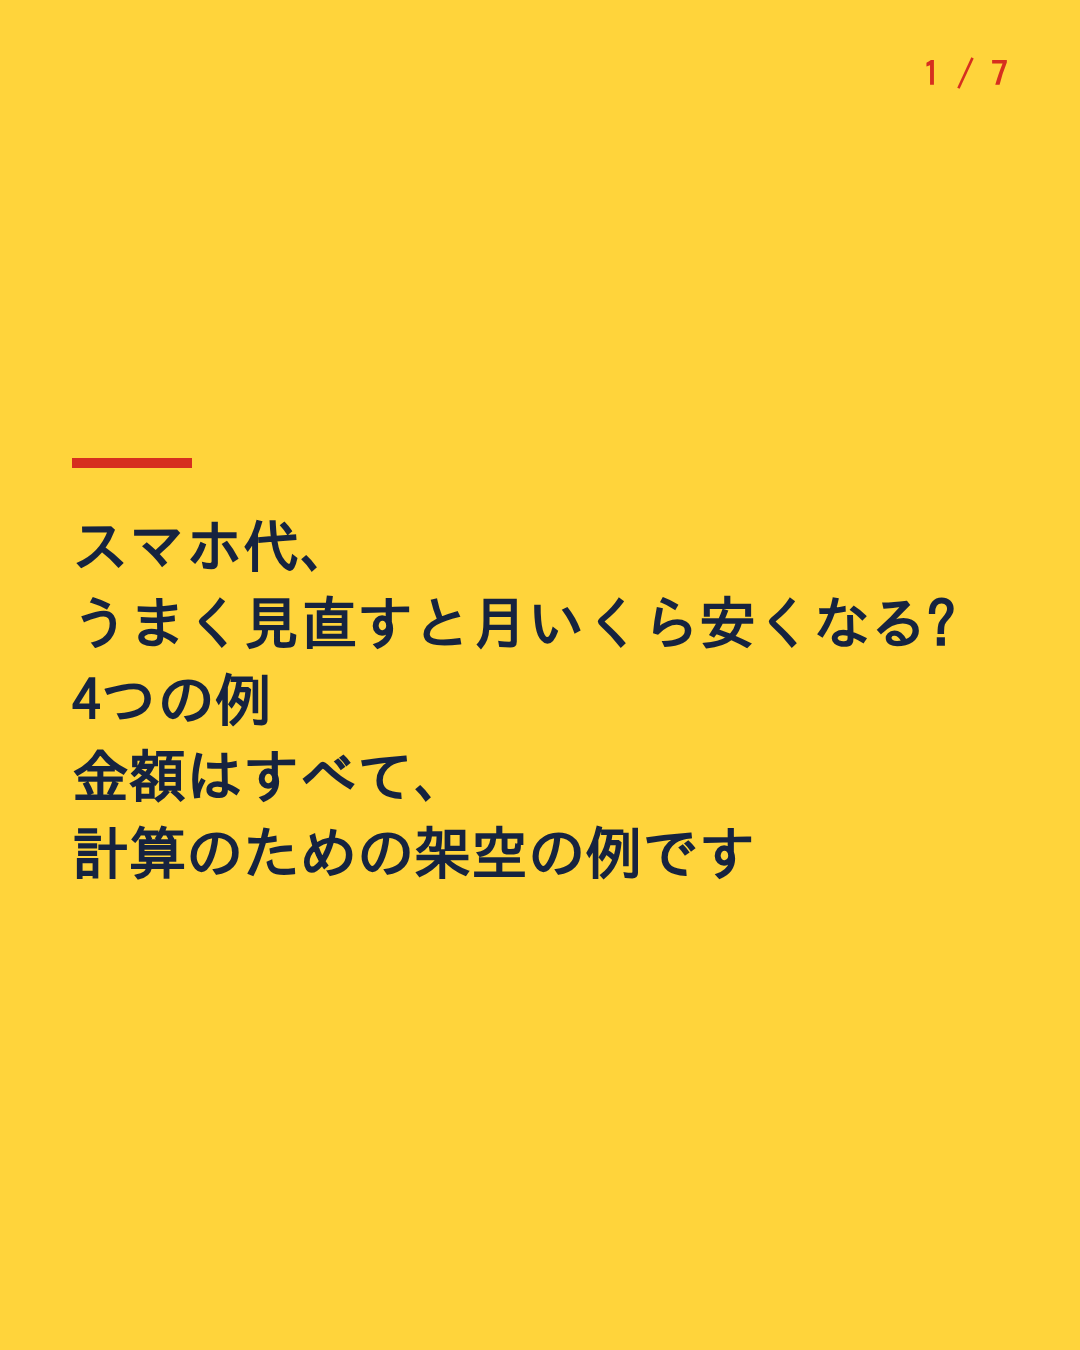
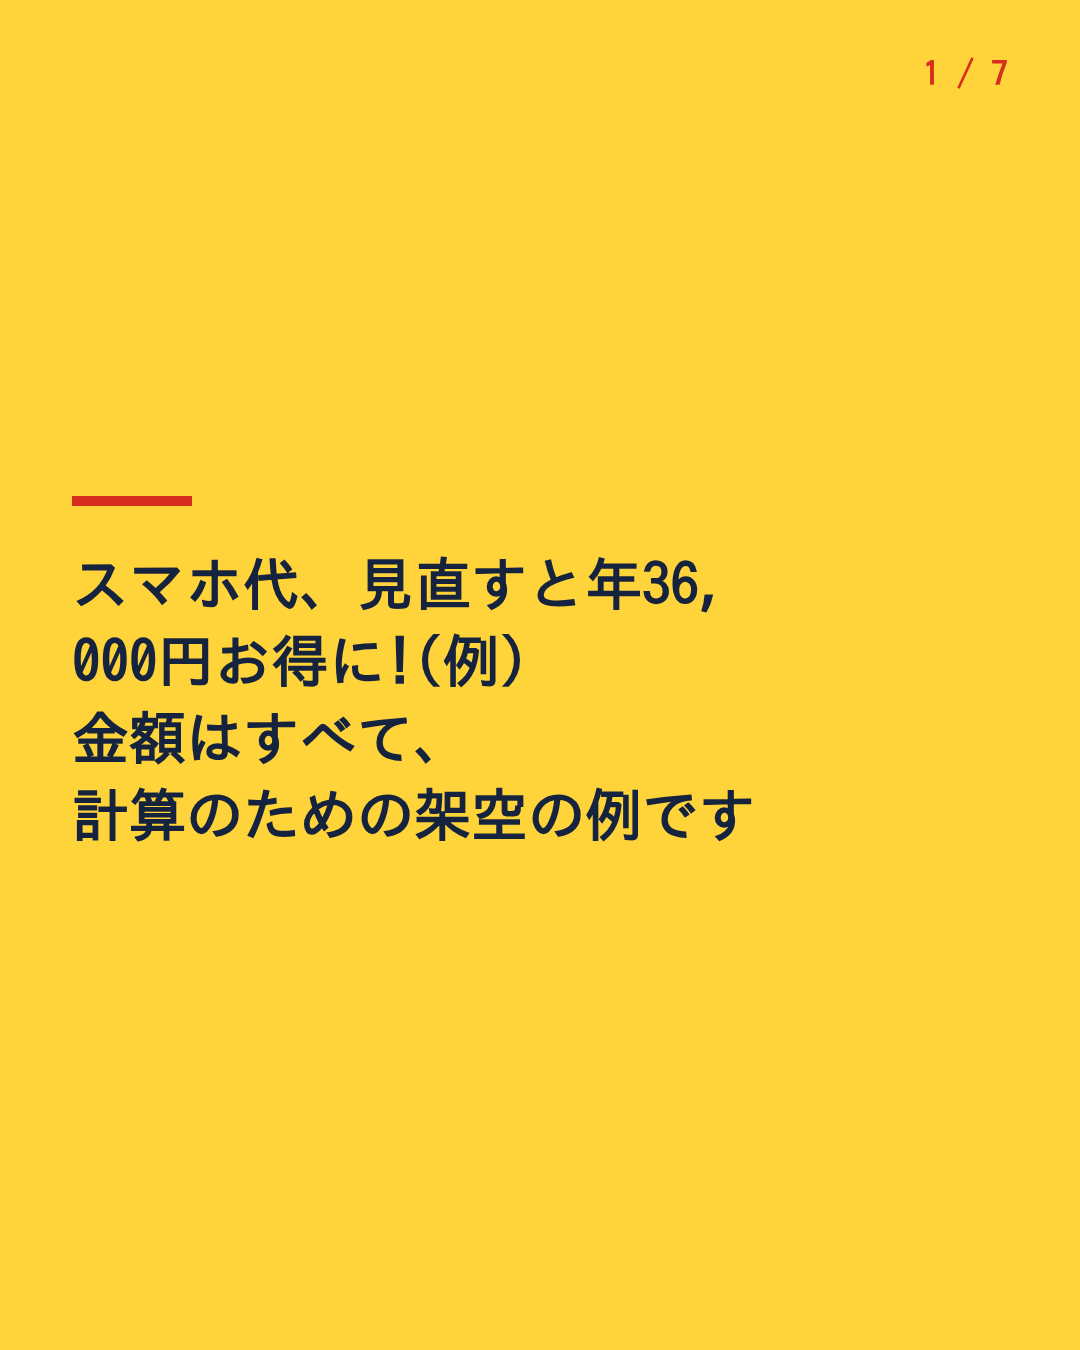
Retitle 11-04_002 to 'お得に' form with assumed amount; redo cover and images
Claude-Session: https://claude.ai/code/session_019jxzMkHZEL8EPC28xkVZW1

Changed region(s): [[0.0611, 0.3422, 0.7333, 0.6533], [0.7639, 0.4356, 0.8861, 0.4978]]

diff --git a/runs/2026-11-04_002/05_revised.md b/runs/2026-11-04_002/05_revised.md
@@ -1,8 +1,8 @@
-# スマホ代、うまく見直すと月いくら安くなる?4つの例
+# スマホ代、見直すと年36,000円お得に!(例)
 
 【画像:cover.png】
 
-こんにちは、人生最適化中の会社員です。今日は、スマホ代を見直したら月いくら下がるのか、4つの例で見てみます。
+こんにちは、人生最適化中の会社員です。今日は、スマホ代を見直すと年いくらお得になるのか、金額を仮に決めた4つの例で見てみます。例4の場合は、年36,000円です。
 
 請求は毎月届くのに、合計の金額だけ見て閉じる。そんな人もいると思います。見直しは面倒そうで、どのくらい変わるのかも分かりにくいものです。
 
@@ -117,7 +117,7 @@
 
 ## 最後に
 
-見直したら月いくら下がるかは、契約や使い方で人ごとに違います。この記事の4つの例は、そのやり方を見せるための見本です。まず、自分の請求を開いて、いまの月額と使用量を見るところから始めてみてください。
+見直して年いくらお得になるかは、契約や使い方で人ごとに違います。この記事の4つの例は、そのやり方を見せるための見本です。まず、自分の請求を開いて、いまの月額と使用量を見るところから始めてみてください。
 
 最後まで読んでくれて、ありがとうございます。
 
@@ -132,7 +132,7 @@
 - https://www.soumu.go.jp/menu_seisaku/ictseisaku/keitai_portal/gimonkaiketsu/q_5.html (同Q5「初期契約解除」、2026-11-04 取得)
 
 ## 修正履歴
-- 再編集(持ち主の指示): 「1年でいくら?」の投げかけをやめ、「うまくいけば月いくら下がるか」の例4つを主役に全面的に書き直した。タイトルは「スマホ代、うまく見直すと月いくら安くなる?4つの例」。例の形は「いまの月額→変えること→新しい月額→月の差→年の差(×12)」。例1=大容量から中くらいへ、例2=オプションをやめる、例3=少ないデータ量向けの安い料金(総務省の「3GB以下で月額1,000円以下の事業者もある」が根拠。会社名・プラン名なし)、例4=組み合わせ+乗り換え(手数料3,300円、違約金の上限1,100円は条件つき、元が取れる月数を計算)。各例に「当てはまる人/当てはまらない人」を1行ずつ。「誰でも」「必ず」「簡単に」「いくら得する」は使わず、「うまくいけば」「この例の場合」とした。金額は架空と冒頭・注意書き・図で明記。落とし穴は1節。過去記事の「3つを並べる」形を避け、金額の例を並べる形にした。図は fig1(4つの例の早見表)、fig2(自分の数字で計算する手順)に作り直し、表紙は「スマホ代」・phone・猫なし・1行12字以内。
+- 再編集(持ち主の指示): 「1年でいくら?」の投げかけをやめ、「うまくいけば月いくら下がるか」の例4つを主役に全面的に書き直した。タイトルは「スマホ代、見直すと年36,000円お得に!(例)」。例の形は「いまの月額→変えること→新しい月額→月の差→年の差(×12)」。例1=大容量から中くらいへ、例2=オプションをやめる、例3=少ないデータ量向けの安い料金(総務省の「3GB以下で月額1,000円以下の事業者もある」が根拠。会社名・プラン名なし)、例4=組み合わせ+乗り換え(手数料3,300円、違約金の上限1,100円は条件つき、元が取れる月数を計算)。各例に「当てはまる人/当てはまらない人」を1行ずつ。「誰でも」「必ず」「簡単に」「いくら得する」は使わず、「うまくいけば」「この例の場合」とした。金額は架空と冒頭・注意書き・図で明記。落とし穴は1節。過去記事の「3つを並べる」形を避け、金額の例を並べる形にした。図は fig1(4つの例の早見表)、fig2(自分の数字で計算する手順)に作り直し、表紙は「スマホ代」・phone・猫なし・1行12字以内。
 - 問題1: 旧批評の「1年でいくら?」の弱さは、投げかけ自体をやめて解消した。
 - 問題2: 「×12」を主役にせず、月の差と年の差を例ごとに出す形にした。
 - 問題3: 過去記事の並べ方を避け、金額の例を並べる構成にした。

diff --git a/runs/2026-11-04_002/06_sns.md b/runs/2026-11-04_002/06_sns.md
@@ -1,6 +1,6 @@
-# SNS投稿案: スマホ代、うまく見直すと月いくら安くなる?4つの例
+# SNS投稿案: スマホ代、見直すと年36,000円お得に!(例)
 ## X投稿案
-- 「スマホ代、うまく見直すと月いくら安くなる?4つの例」という記事を書きました。金額はすべて、計算のための架空の例です。自分の請求の数字に置き換えて計算するための見本です。【記事URL】
+- 「スマホ代、見直すと年36,000円お得に!(例)」という記事を書きました。金額はすべて、計算のための架空の例です。自分の請求の数字に置き換えて計算するための見本です。【記事URL】
 - 例えば(架空の金額の例)。月8,000円のスマホ代を、使う量に合うプランに変えて5,500円になったとします。この例の場合、うまくいけば月2,500円、年30,000円の差です。【記事URL】
 - 例えば(架空の金額の例)。月6,000円のうち、使っていない追加サービスが800円。やめて5,200円になれば、この例の場合、乗り換えなしで年9,600円の差です。【記事URL】
 - 乗り換えにはお金がかかります。総務省の案内では、手数料などは3,300円前後(目安)。架空の例で月3,000円下がるなら、手数料だけの場合、約1.1か月で元が取れる計算です。【記事URL】
@@ -9,7 +9,7 @@
 ## Threads投稿案
 - 請求は毎月届くのに、合計の金額だけ見て閉じる。そんな人もいると思います。
 
-スマホ代を見直すと、月にどのくらい変わるのか。4つの例で並べた記事を書きました。
+スマホ代を見直すと、年にいくらお得になるのか。金額を仮に決めた4つの例で並べた記事を書きました。
 
 先にお断りします。金額はすべて、計算のための架空の例です。総務省の案内をもとにした「こういう変え方がある」という見本で、あなたの請求がこの金額という意味ではありません。
 
@@ -29,7 +29,7 @@
 
 ## Instagram投稿案
 カルーセル案(全7枚)
-- 1枚目: スマホ代、うまく見直すと月いくら安くなる?4つの例 / 金額はすべて、計算のための架空の例です
+- 1枚目: スマホ代、見直すと年36,000円お得に!(例) / 金額はすべて、計算のための架空の例です
 - 2枚目: 請求は毎月届くのに、合計の金額だけ見て閉じる。そんな人もいると思います / 例の形:いまの月額→変えること→新しい月額→月の差→年の差
 - 3枚目: 例1(架空) 使う量に合うプランへ / 8,000円→5,500円 / 月2,500円、年30,000円の差 / この例の場合、うまくいけば
 - 4枚目: 例2(架空) 使っていない追加サービスをやめる / 6,000円→5,200円 / 月800円、年9,600円の差 / 乗り換えなし。この例の場合
@@ -40,7 +40,7 @@
 ## Instagramキャプション
 請求は毎月届くのに、合計の金額だけ見て閉じる。そんな人もいると思います。
 
-スマホ代を見直すと、月にどのくらい変わるのか。4つの例で並べた記事を書きました。
+スマホ代を見直すと、年にいくらお得になるのか。金額を仮に決めた4つの例で並べた記事を書きました。
 
 金額はすべて、計算のための架空の例です。あなたの請求がこの金額という意味ではなく、全員に当てはまる例でもありません。どれも、うまくいけば、の話です。
 

diff --git a/runs/2026-11-04_002/author_notes.md b/runs/2026-11-04_002/author_notes.md
@@ -6,7 +6,7 @@
 - 合計2か所(3か所以内)。すべて読者の場面で、割合の数字なし。筆者の体験ではない。
 
 ## タイトル(再編集:持ち主の指示)
-- 本案: スマホ代、うまく見直すと月いくら安くなる?4つの例
+- 本案: スマホ代、見直すと年36,000円お得に!(例)
 - 予備: スマホ代、見直すと月いくら下がる?4つの例
 - 予備: スマホ代を下げる4つの例、月いくら変わる?
 
@@ -21,3 +21,7 @@
 - 次回予告は、確認できる翌日の企画がないため入れていない。
 - 表紙は phone、猫なし、タグ「スマホ代」。赤(b)は「いくら」に使った(数字ではないので、気になれば em だけにする)。
 - アフィリエイトは付けていない。画像は figures.json を作り直したので、make-figures で作り直しが必要。
+
+## 2026-11-07 持ち主の指示でタイトル変更
+- 「月いくら安くなる?」をやめ、「◯◯円お得に!」の形に。◯◯円は仮の金額(例4の年36,000円=月7,800円→4,800円の架空の例)。「この場合はこう」と、記事の中で例ごとに示す。
+- 新タイトル: スマホ代、見直すと年36,000円お得に!(例) ※金額は架空の仮定で、記事の冒頭と末尾に明記済み
